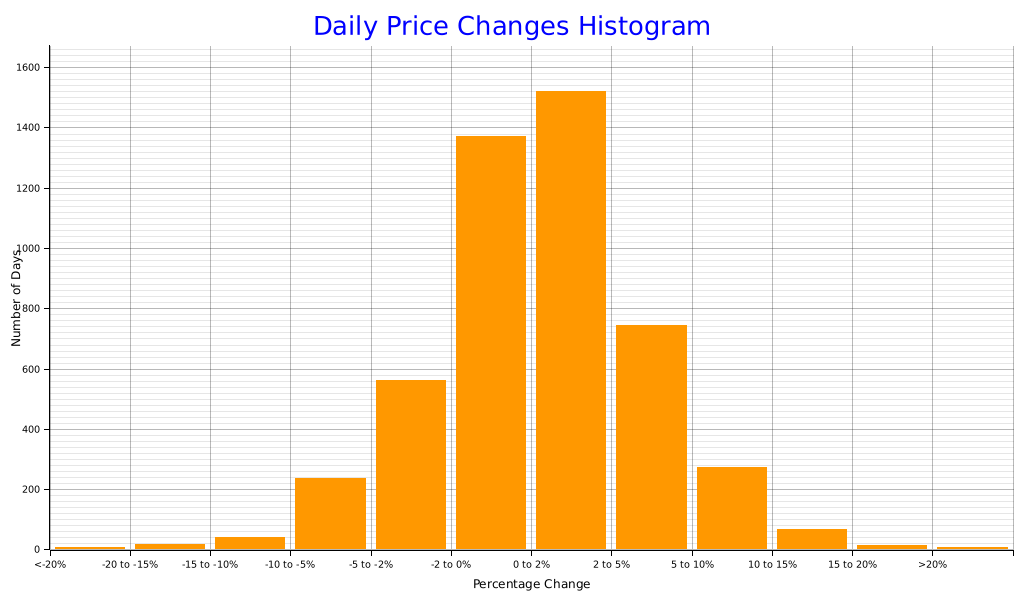
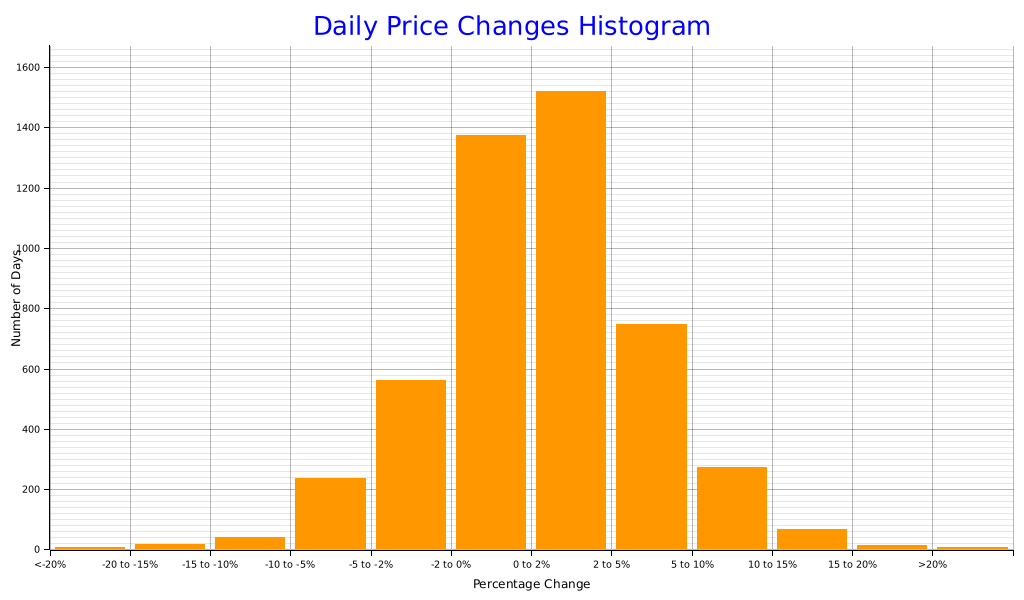
deploy: 2ec303340c5193f5a353e07252f7bd5becf0cbf2

diff --git a/index.html b/index.html
@@ -172,11 +172,11 @@
         </tr>
         <tr>
           <td>0% to 2%</td>
-          <td>1520</td>
+          <td>1519</td>
         </tr>
         <tr>
           <td>2% to 5%</td>
-          <td>746</td>
+          <td>747</td>
         </tr>
         <tr>
           <td>5% to 10%</td>
@@ -225,12 +225,12 @@
             <td>83,392.38</td>
             <td>85,293.35</td>
             <td>82,815.32</td>
-            <td>84,892.45</td>
-            <td class='wma-column'>45,714.26</td>
-            <td>35.23 (0.07 %)</td>
-            <td>49,339.93 (138.7 %)</td>
+            <td>85,162.42</td>
+            <td class='wma-column'>45,714.46</td>
+            <td>35.42 (0.07 %)</td>
+            <td>49,609.91 (139.5 %)</td>
             <td>2,478.03 (2.9 %)</td>
-            <td>1,487.61 (1.7 %)</td>
+            <td>1,757.59 (2.1 %)</td>
           </tr>
           <tr>
             <td>2025-04-11</td>
